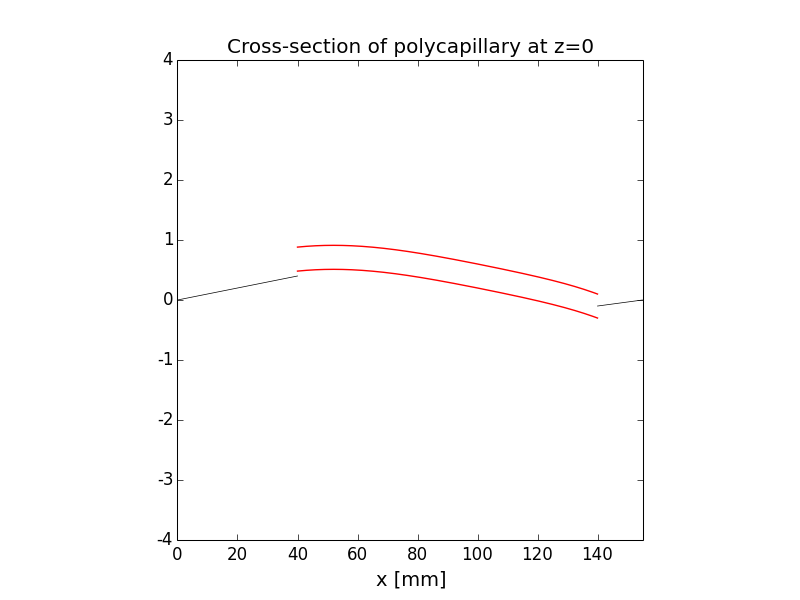
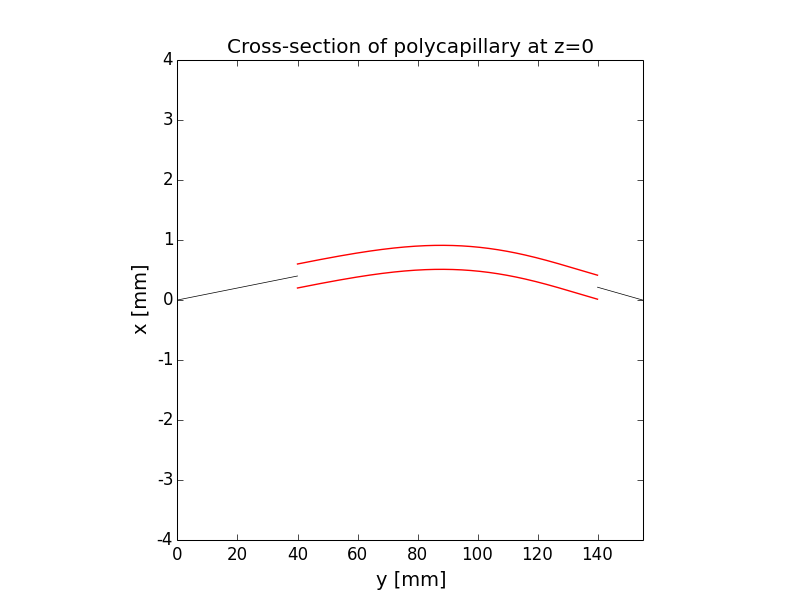
Minor plot fixes

Changed region(s): [[0.375, 0.39, 0.8125, 0.54], [0.1562, 0.45, 0.1875, 0.57], [0.4688, 0.96, 0.5, 0.99]]

diff --git a/realisticPolycapillary.py b/realisticPolycapillary.py
@@ -56,11 +56,9 @@ class BentCapillary(roe.OE):
         self.isParametric = True
 
     def local_x0(self, s):
-        s = self.y2 - s
         return self.p[0] + self.p[1]*s + self.p[2]*s**2 + self.p[3]*s**3 + self.p[4]*s**4 + self.p[5]*s**5
 
     def local_x0Prime(self, s):
-        s = self.y2 - s
         return self.p[1] + 2*self.p[2]*s + 3*self.p[3]*s**2 + 4*self.p[4]*s**3 + 5*self.p[5]*s**4
 
     def local_r0(self, s):
@@ -85,14 +83,14 @@ class BentCapillary(roe.OE):
         *s* is along y in inverse direction, started at the exit,
         *r* is measured from the capillary axis x0(s)
         *phi* is the polar angle measured from the z (vertical) direction."""
-        s = self.y2 - y
+        s = y
         phi = np.arctan2(x - self.local_x0(s), z)
         r = np.sqrt((x-self.local_x0(s))**2 + z**2)
         return s, phi, r
 
     def param_to_xyz(self, s, phi, r):
         x = self.local_x0(s) + r*np.sin(phi)
-        y = self.y2 - s
+        y = s
         z = r * np.cos(phi)
         return x, y, z
 
@@ -112,8 +110,7 @@ def build_beamline(nrays=1e4):
         distE='lines', energies=(E0,), polarization='horizontal')
 
     # Insert screen at the lens entrance here
-    beamLine.entScreen = rsc.Screen(beamLine, 'EntranceScreen',
-    (0,y1,0))
+    beamLine.entScreen = rsc.Screen(beamLine, 'EntranceScreen',(0,y1,0))
 
     beamLine.capillaries = []
     for h_it in range(1,2):
@@ -127,7 +124,7 @@ def build_beamline(nrays=1e4):
         beamLine.capillaries.append(capillary)
         print h_in, 'dupa', h_in*Dout/Din
 
-    beamLine.exitScreen = rsc.Screen(beamLine,'ExitScreent', (0,y2,0))
+    beamLine.exitScreen = rsc.Screen(beamLine,'ExitScreen', (0,y2,0))
 
     return beamLine
 
@@ -174,7 +171,7 @@ def main():
     """
     Lens Exit Screen
     """
-    xLimits = [-3*rin, 3*rin]
+    xLimits = [-Dout, Dout]
     zLimits = [-3*rin, 3*rin]
     plot = xrtp.XYCPlot('ExitScreen', (1,),
         xaxis=xrtp.XYCAxis(r"$x$", 'mm', data=raycing.get_x, bins=256, ppb=2, limits=xLimits),

diff --git a/PlotMono.py b/PlotMono.py
@@ -13,7 +13,7 @@ def plot2D(beamLine):
     ax1 = plt.subplot(111, aspect=20, label='1')
     ax1.set_title('Cross-section of polycapillary at z=0')
     ax1.set_xlabel('y [mm]', fontsize=14)
-    ax1.set_xlabel('x [mm]', fontsize=14)
+    ax1.set_ylabel('x [mm]', fontsize=14)
     seq = [2, 5, 12, 5]
     s = np.linspace(beamLine.y1, beamLine.y2,200)
     for capillary in beamLine.capillaries:
